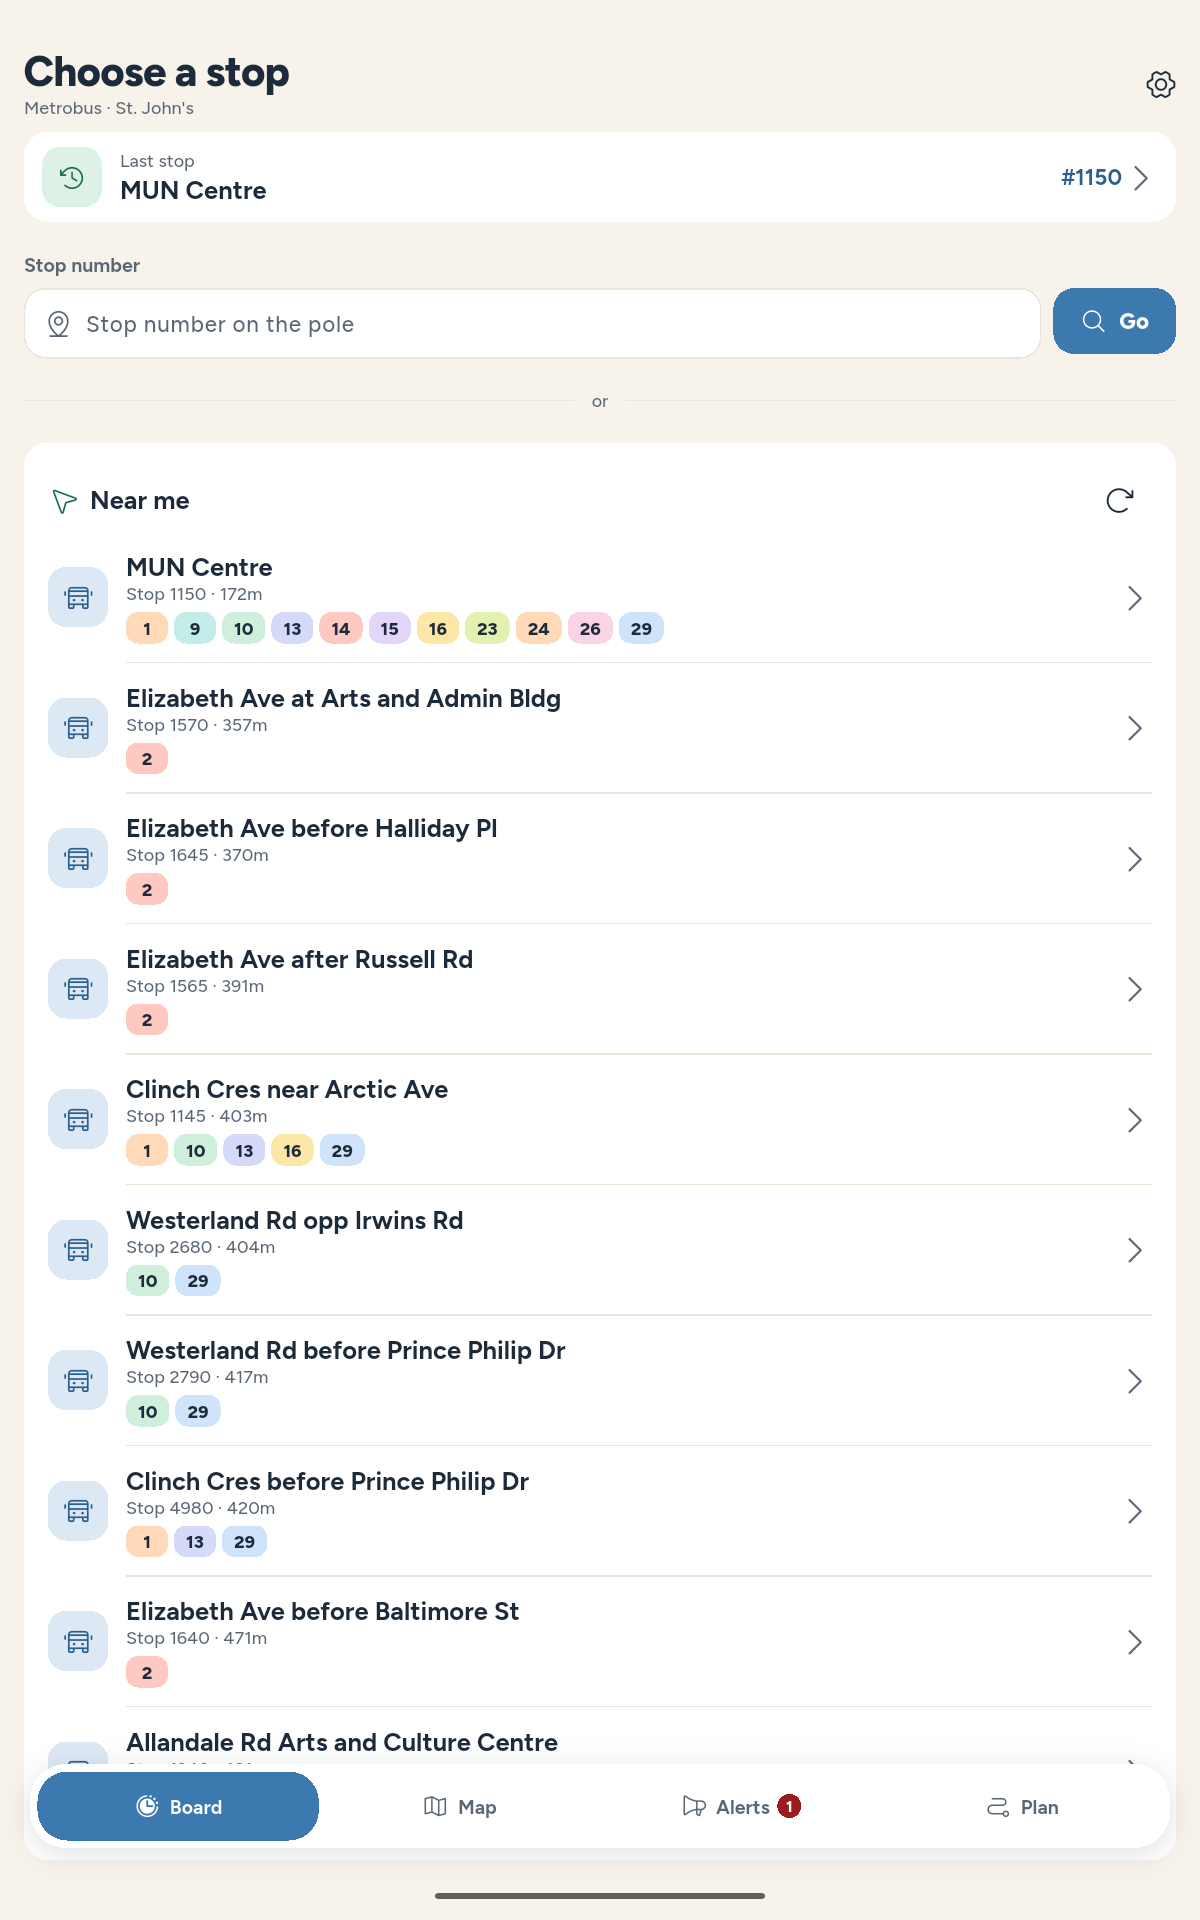
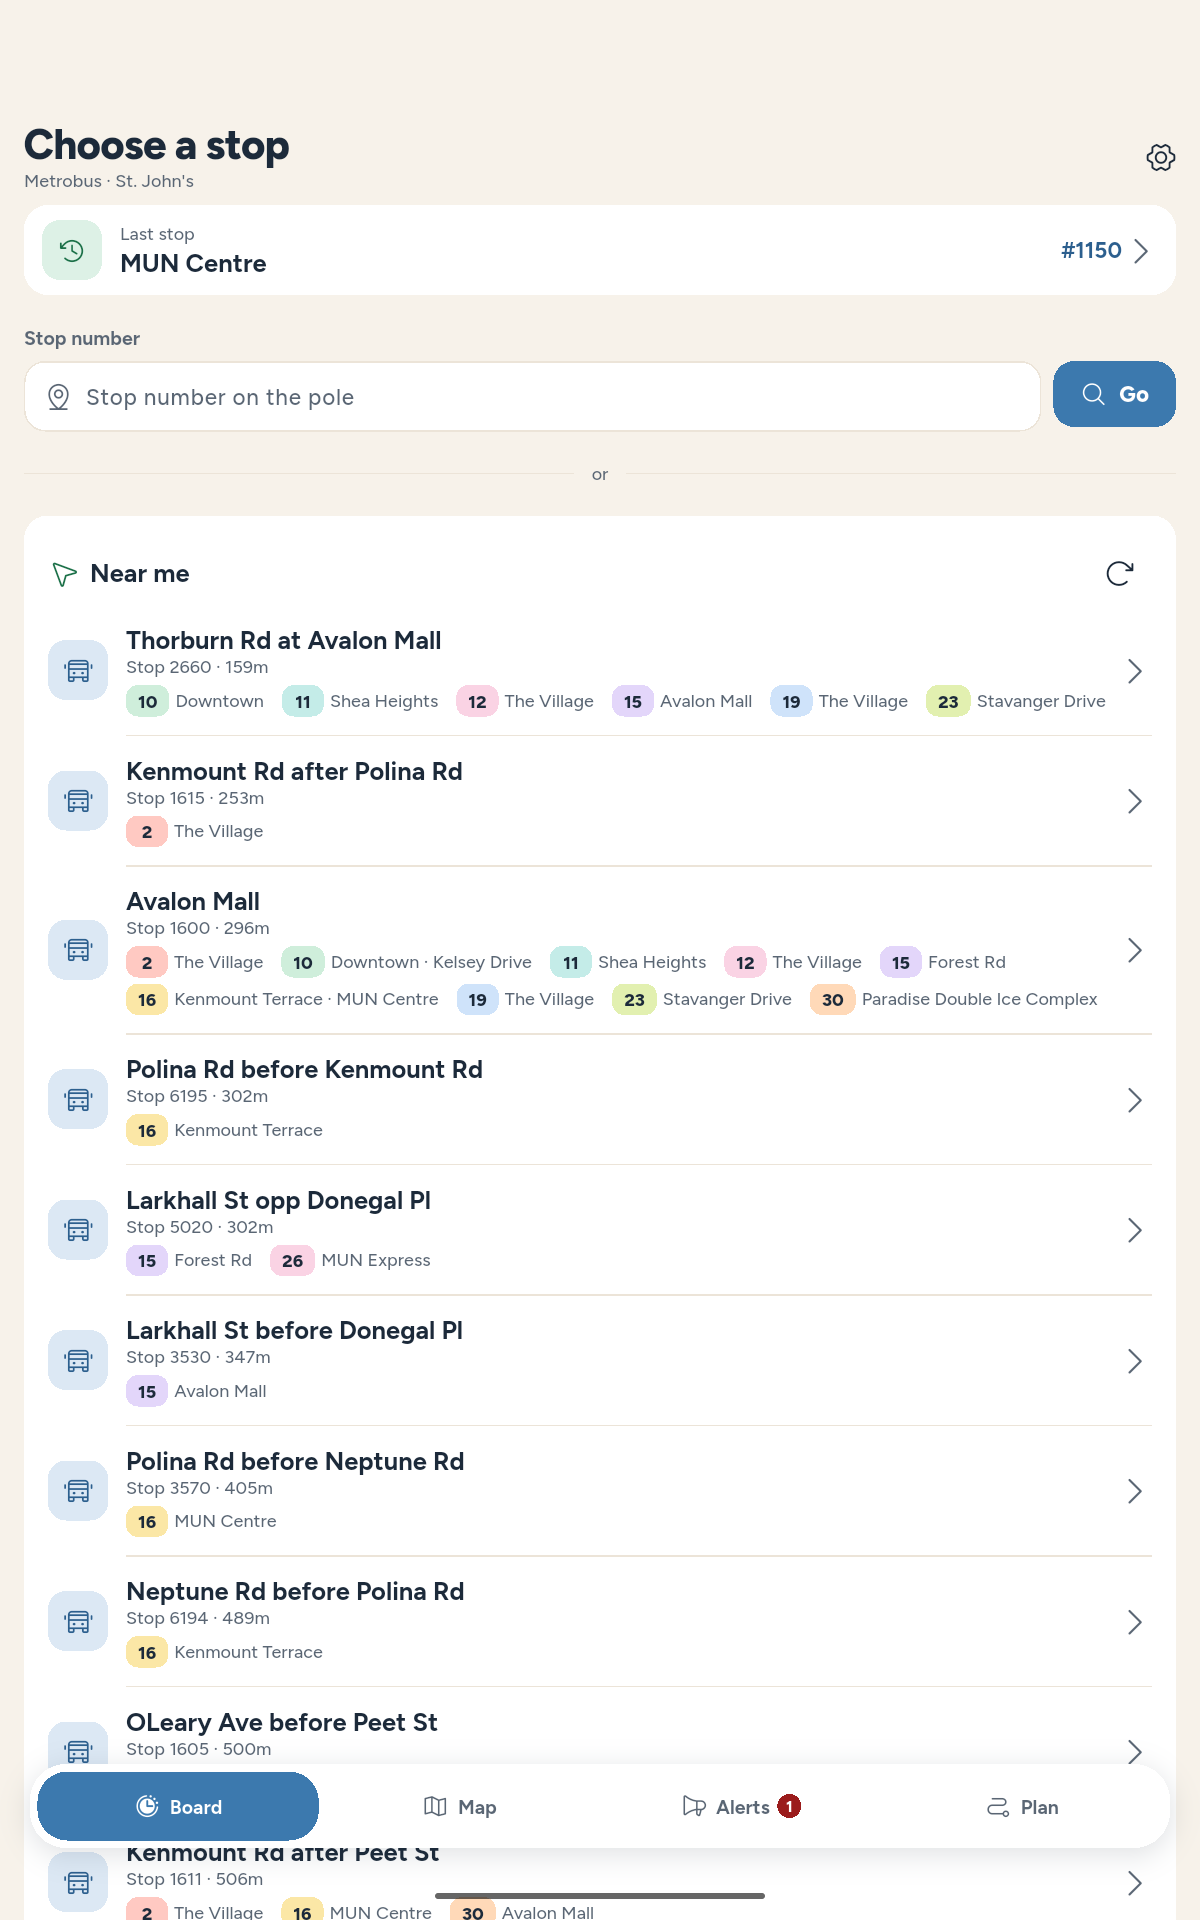
chore(store): 1.4.1 nearby-stops slide shows route directions
Recaptured nearby-stops raws for the Play phone and tablets, the new
caption "See where each route goes, or enter any stop number", and the
re-rendered 07-nearby slide in every framed set.

diff --git a/store/marketing/render.py b/store/marketing/render.py
@@ -18,7 +18,7 @@ SLIDES = [
     ('04-arrivals', '01-mun-centre-1150', 'blue', 'Live arrivals<br>at your stop', 'Metrobus predictions next to the schedule,<br>early or late at a glance'),
     ('05-trip-detail', '08-trip-detail', 'blue', 'Save the trips<br>you take often', 'Your next buses, one tap away,<br>worked out on your phone'),
     ('06-map', '02-live-map', 'blue', 'Every bus,<br>live on the map', 'Route colours and smooth movement<br>between position updates'),
-    ('07-nearby', '05-nearby-stops', 'blue', 'Stops near you,<br>in a tap', 'Nearby stops with their routes,<br>or enter any stop number'),
+    ('07-nearby', '05-nearby-stops', 'blue', 'Stops near you,<br>in a tap', 'See where each route goes,<br>or enter any stop number'),
     ('08-service-alerts', '04-service-alerts', 'blue', 'Detours and alerts<br>for your routes', 'Official Metrobus service alerts,<br>matched to your stop'),
 ]
 
